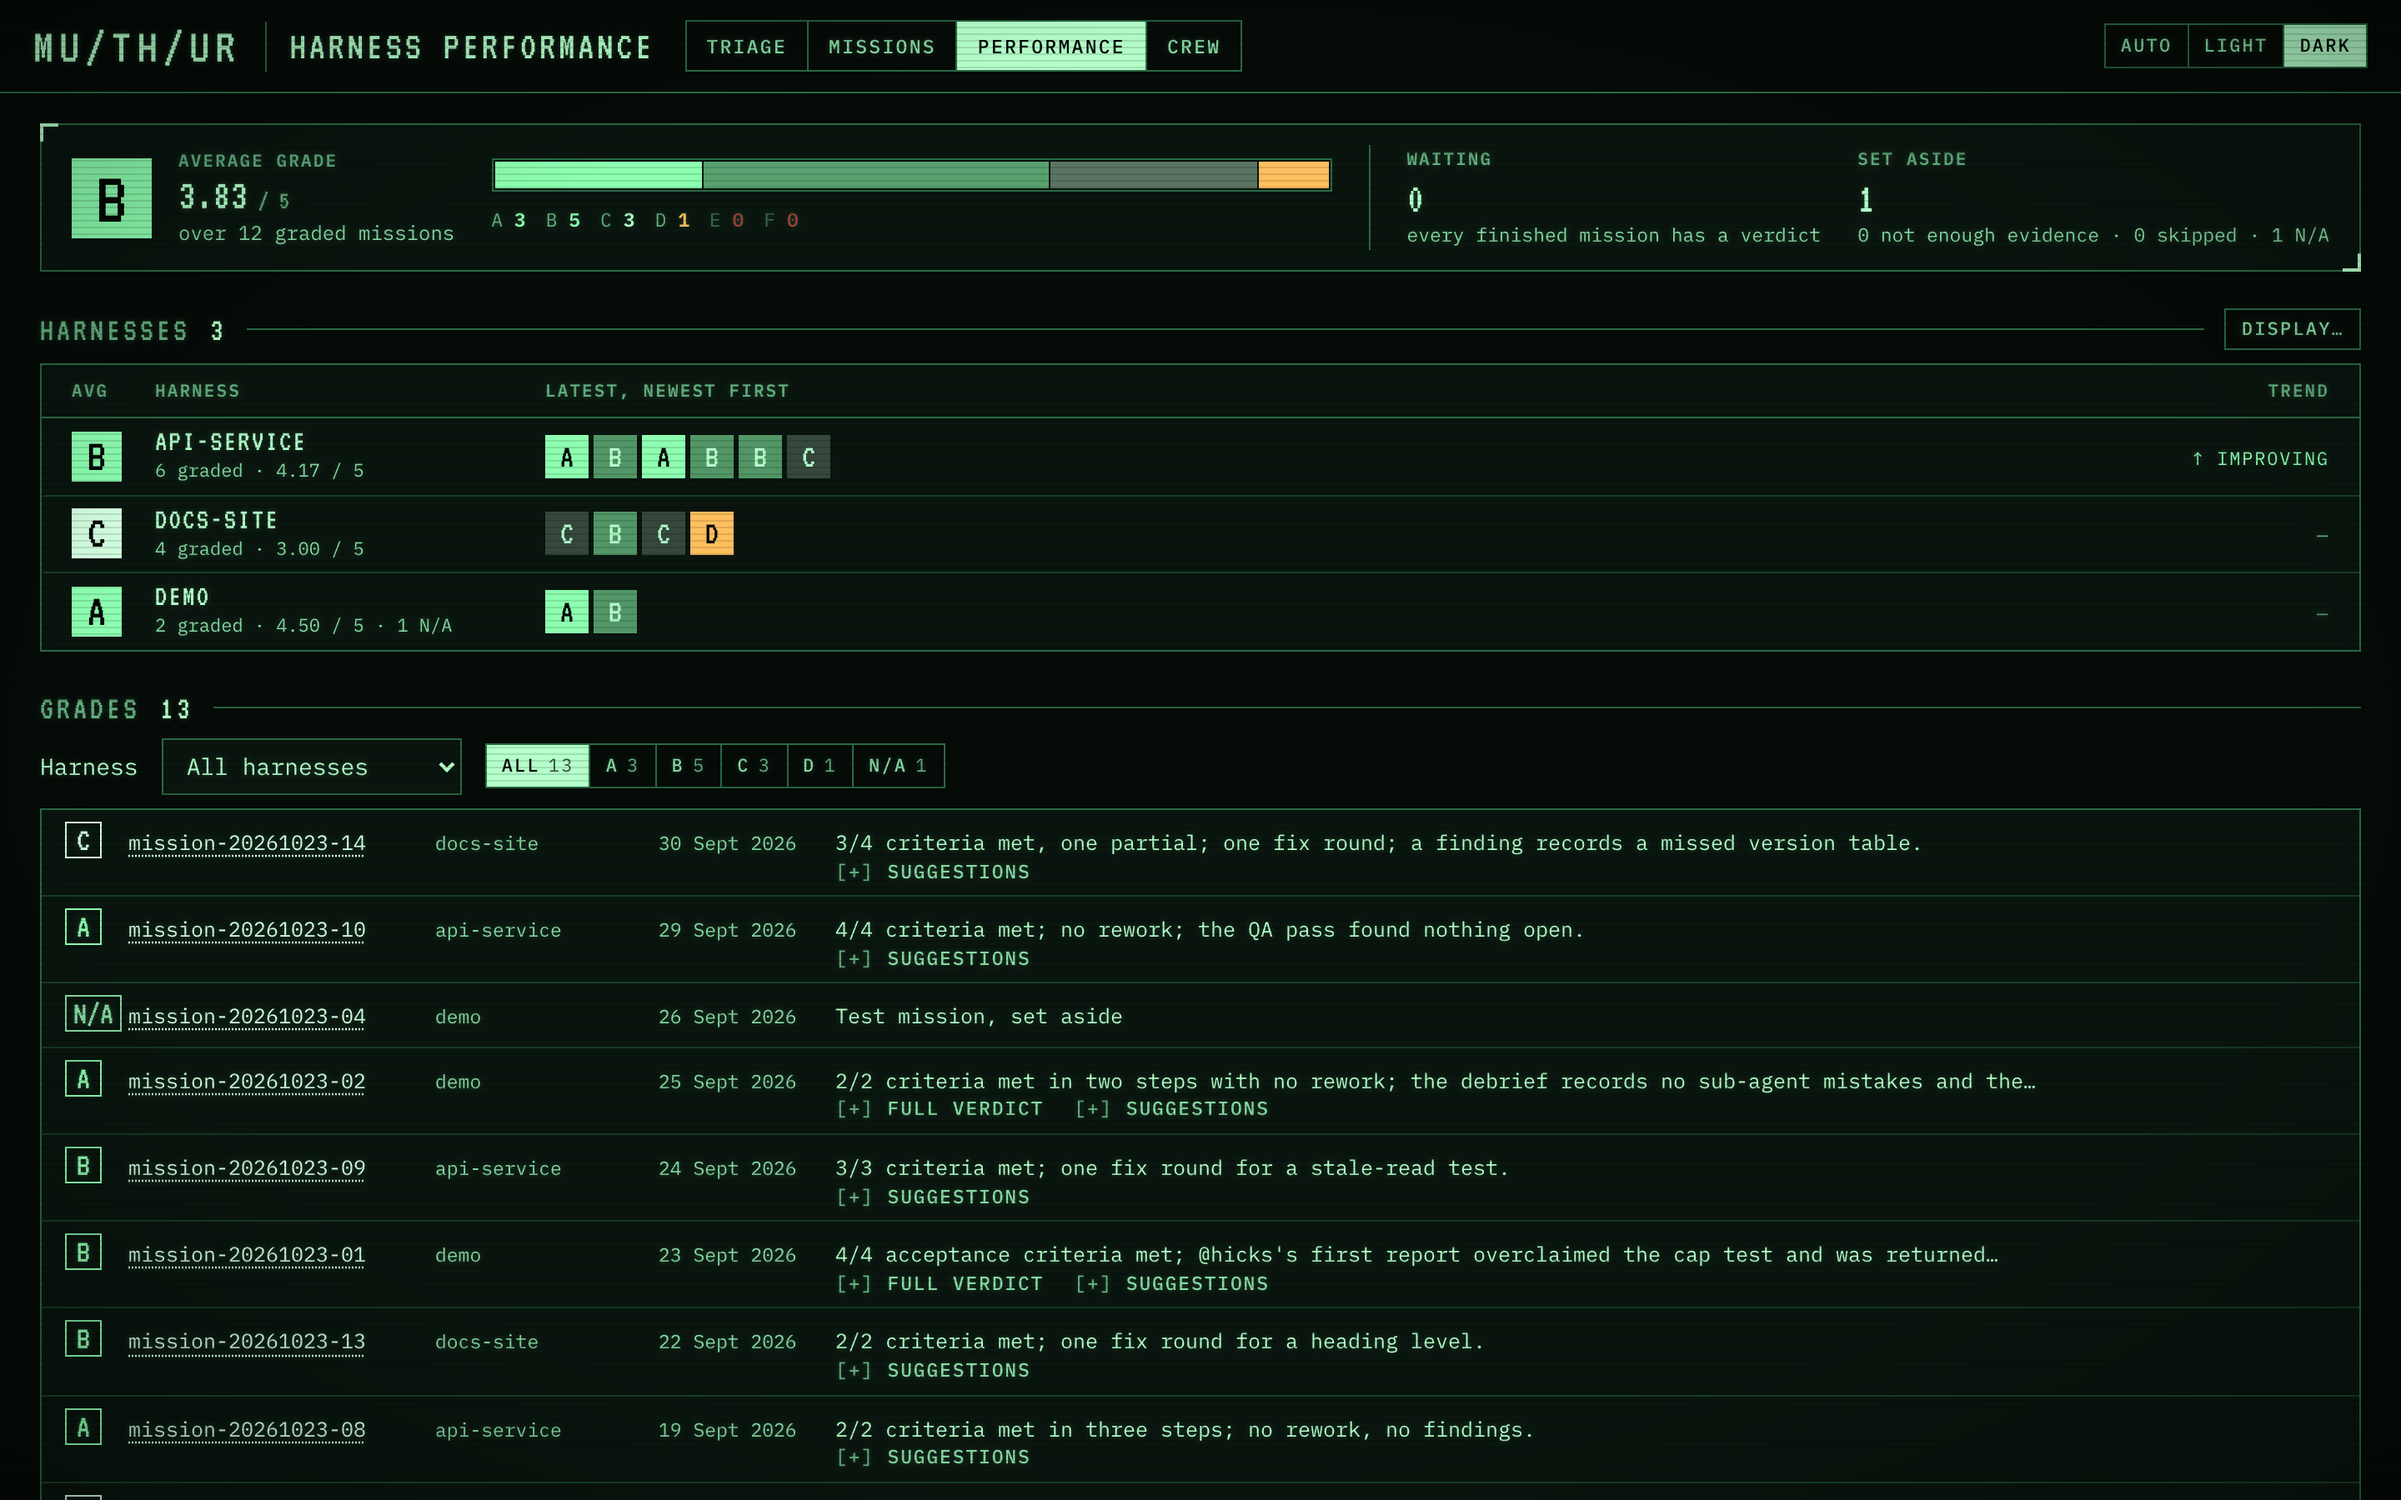
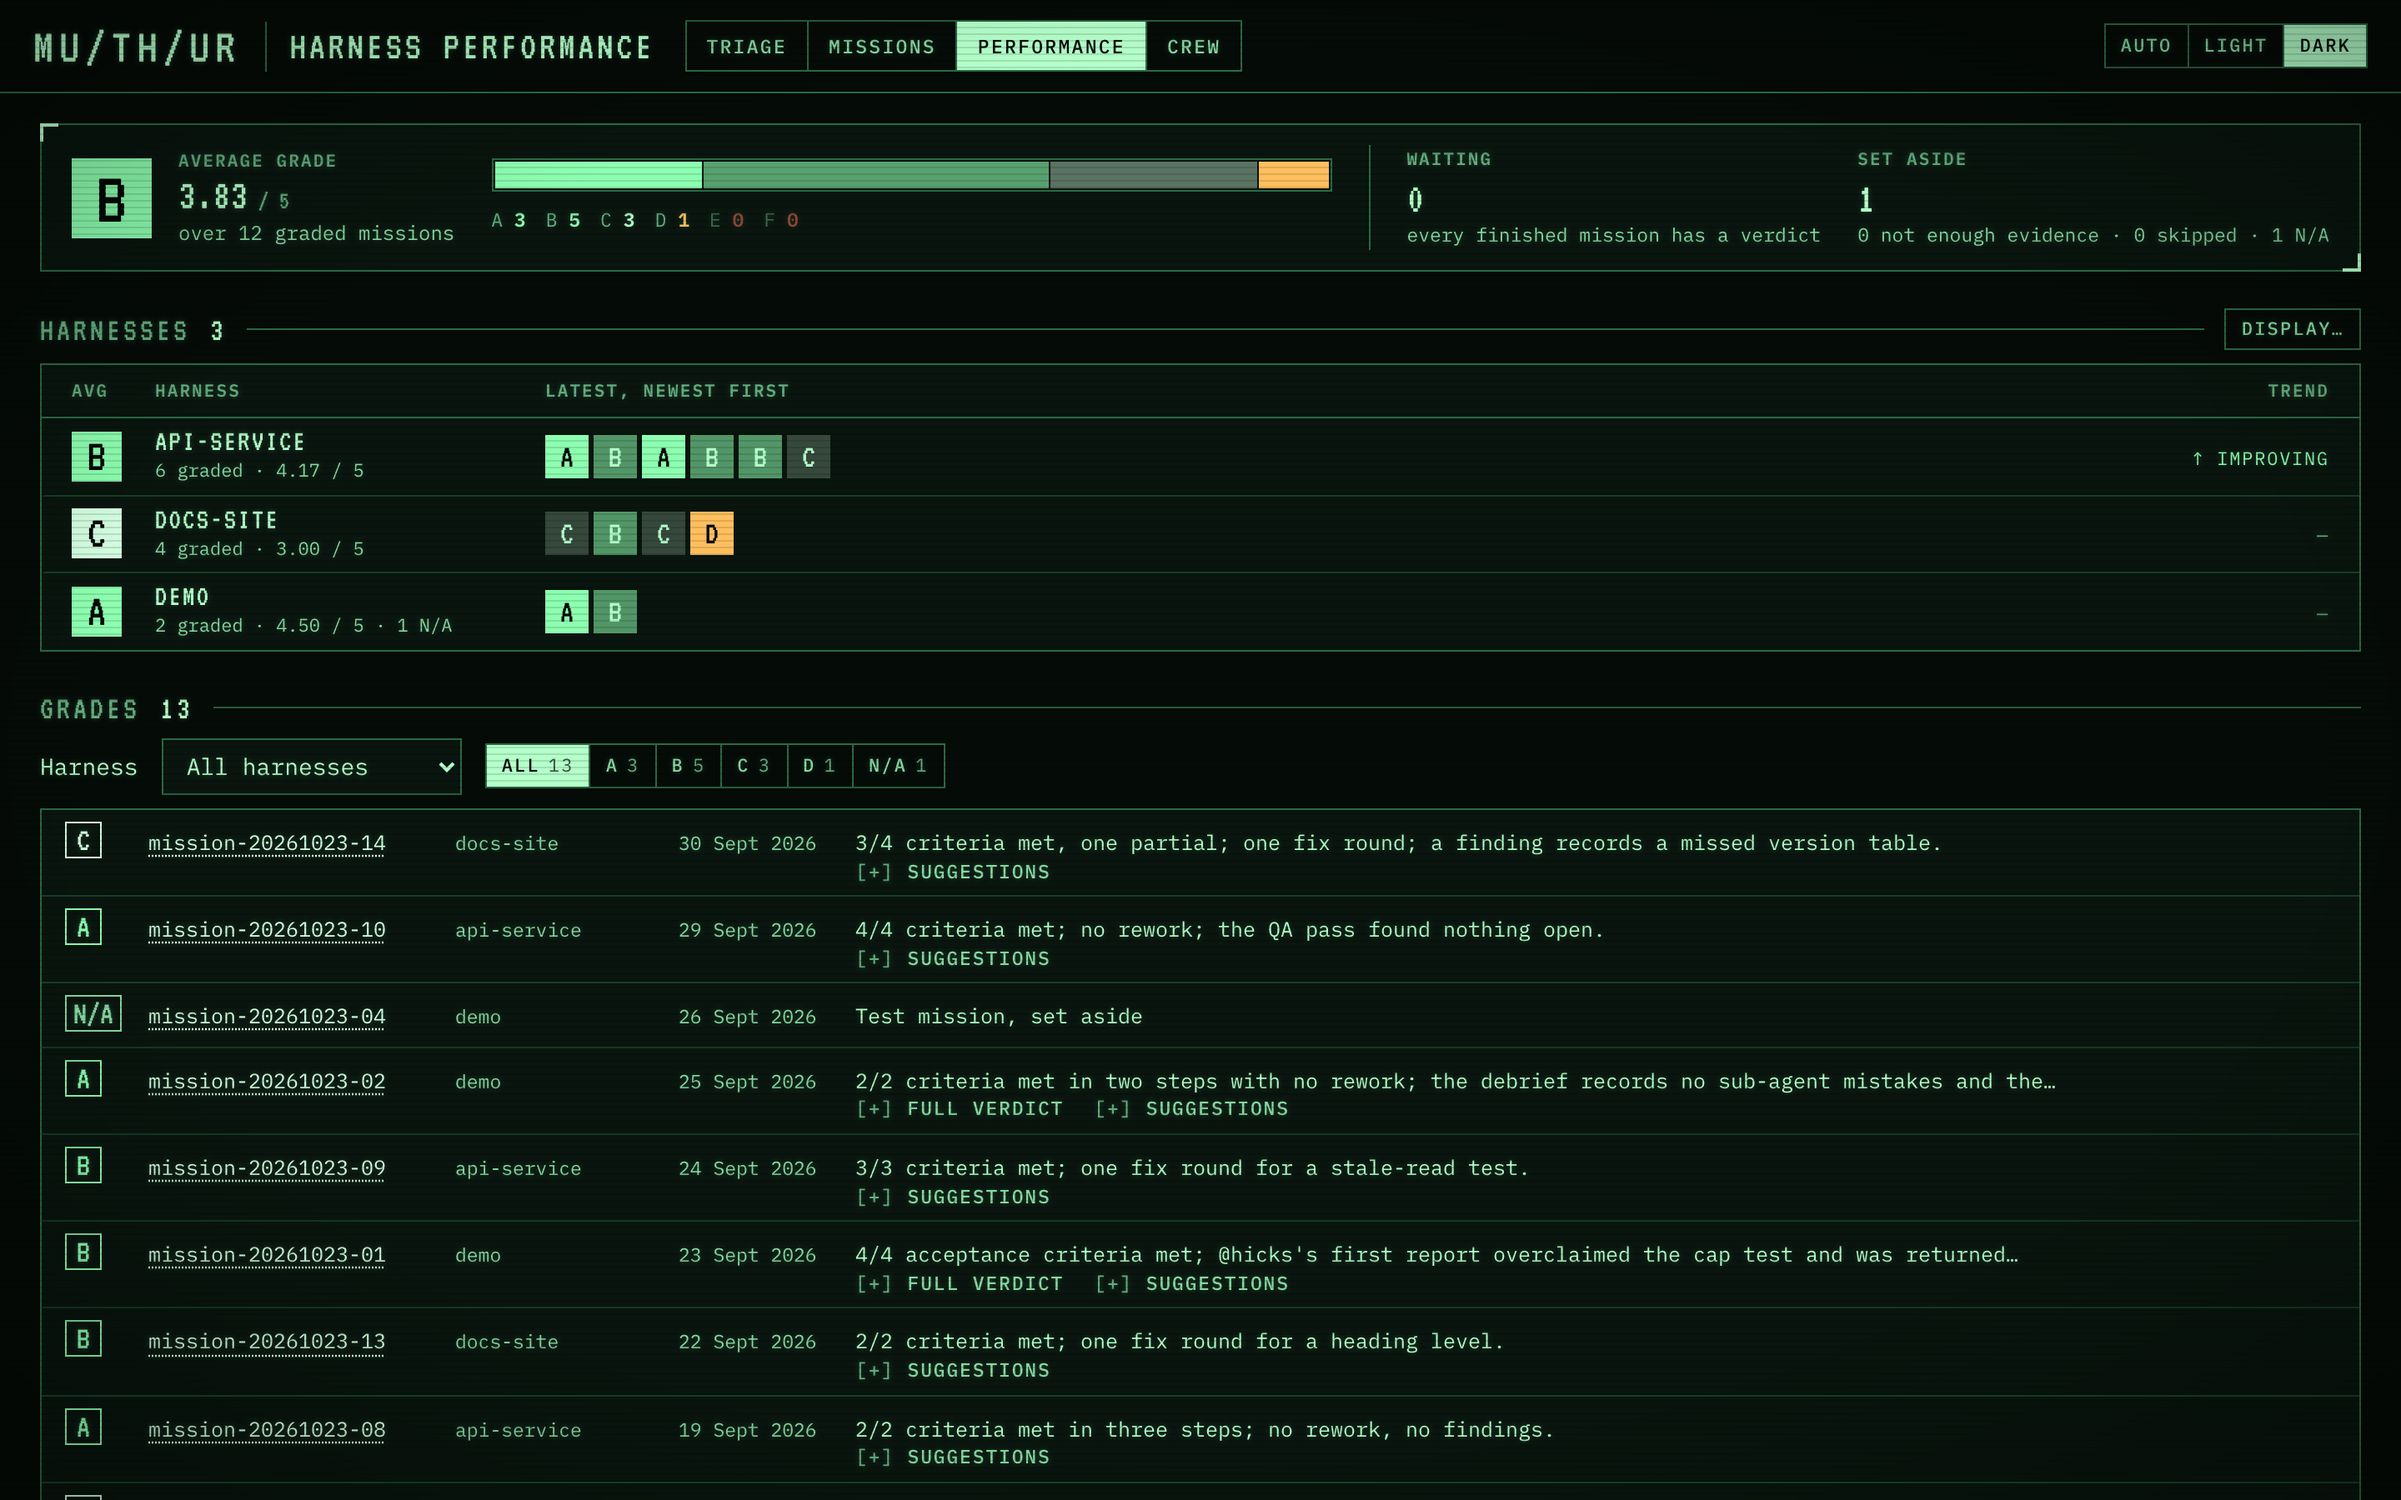
Fix the N/A grade overlap and the steps heading clip; harden the seeder
performance.html: the grade column of the Performance grades list was a
24px track at desktop width and at 1100px and below. The N/A box is wider
than a letter box, so it overflowed into the gap before the mission link.
The track is now 36px, the width the base rule already uses. Letter rows
keep their boxes; every row's mission link moves right by 12px.

capture.js: the sticky bars (the header and, on desktop, the mission tab
bar) are measured from their computed top and height. A section heading
must sit below them, and showMissionSection and showMissionHead fail the
run otherwise. missions-na-light also asserts that the Grade section
contains "N/A". The file header names the performance shots.

seed-demo.py: seed_exclusions stops with a message when a grades.excluded
key names no demo mission, and when the route does not answer state
excluded. A non-2xx answer stops inside call(). The printed count is the
number of exclusions that succeeded.

docs/wiki/images: regenerated by make screenshots.

diff --git a/scripts/screenshots/capture.js b/scripts/screenshots/capture.js
@@ -1,4 +1,4 @@
-// scripts/screenshots/capture.js — capture the review page and the mission HUD for the docs.
+// scripts/screenshots/capture.js — capture the review page, the mission HUD and the performance page for the docs.
 //
 // Usage: node capture.js <base-url> <output-dir>
 //
@@ -36,7 +36,7 @@ const SHOTS = [
     after: async (page) => { await showMissionHead(page); } },
   // The set-aside mission from demo.json: its Grade section carries the large N/A badge.
   { name: 'missions-na-light', theme: 'light', viewport: DESKTOP, mission: 'Dry run of the release checklist',
-    after: async (page) => { await showMissionSection(page, { heading: 'Grade', must: '.verdict' }); } },
+    after: async (page) => { await showMissionSection(page, { heading: 'Grade', must: '.verdict', text: 'N/A' }); } },
   { name: 'performance-light', theme: 'light', viewport: DESKTOP, page: '/performance' },
   { name: 'performance-dark', theme: 'dark', viewport: DESKTOP, page: '/performance' },
   { name: 'phone-light', theme: 'light', viewport: PHONE, tab: 'pending',
@@ -51,43 +51,60 @@ const SHOTS = [
     } },
 ];
 
+// The lowest edge, in CSS pixels, of the bars that stick to the top of the
+// viewport: the header, and the mission tab bar where it is sticky (on a phone
+// it is static and is not counted). A heading must sit below this edge to be
+// readable in a shot.
+async function stickyCover(page) {
+  return page.evaluate(() => {
+    const bars = [...document.querySelectorAll('header.top, #mtabs')]
+      .filter(el => getComputedStyle(el).position === 'sticky' && el.getClientRects().length > 0);
+    return Math.max(0, ...bars.map(el => parseFloat(getComputedStyle(el).top) + el.offsetHeight));
+  });
+}
+
 // Makes a mission tab current, when one is given, then scrolls the mission view
-// so the section with this heading sits just below the sticky header. The
-// section is found by its heading, never by its position: the panes hide the
-// sections of other tabs, so a position can name a hidden one. The shot fails
-// unless the section is visible and its `must` element is on screen afterwards.
-async function showMissionSection(page, { tab, heading, must }) {
+// so the heading of the section named by `heading` sits just below the sticky
+// bars. The section is found by its heading, never by its position: the panes
+// hide the sections of other tabs, so a position can name a hidden one. The shot
+// fails unless the section is visible, its heading and its `must` element are on
+// screen below the sticky bars, and, when `text` is given, the section contains it.
+async function showMissionSection(page, { tab, heading, must, text }) {
   if (tab) {
     await page.click(`#mtabs button[data-mt="${tab}"]`);
     await page.waitForTimeout(300);
   }
-  await page.evaluate(({ heading, must }) => {
+  const covered = await stickyCover(page);
+  await page.evaluate(({ heading, must, text, covered }) => {
     const sec = [...document.querySelectorAll('#view section.sec')]
       .find(s => (s.querySelector('h3')?.childNodes[0]?.textContent || '').trim() === heading);
     if (!sec || sec.hidden || sec.getClientRects().length === 0) throw new Error(`no visible "${heading}" section`);
-    const header = document.querySelector('header.top').offsetHeight;
-    window.scrollTo(0, sec.getBoundingClientRect().top + window.scrollY - header - 12);
-    const target = must ? sec.querySelector(must) : sec;
-    const r = target ? target.getBoundingClientRect() : null;
-    if (!r || r.height === 0 || r.top < header || r.top >= window.innerHeight) {
-      throw new Error(`"${heading}" ${must || 'section'} is not on screen after scrolling`);
-    }
-  }, { heading, must });
+    const h3 = sec.querySelector('h3');
+    window.scrollTo(0, h3.getBoundingClientRect().top + window.scrollY - covered - 12);
+    const below = el => {
+      const r = el.getBoundingClientRect();
+      return r.height > 0 && r.top >= covered && r.top < window.innerHeight;
+    };
+    if (!below(h3)) throw new Error(`the "${heading}" heading is clipped by the sticky bars or is off screen`);
+    const target = must ? sec.querySelector(must) : null;
+    if (must && (!target || !below(target))) throw new Error(`"${heading}" ${must} is not on screen below the sticky bars`);
+    if (text && !sec.innerText.includes(text)) throw new Error(`the "${heading}" section does not contain "${text}"`);
+  }, { heading, must, text, covered });
   await page.waitForTimeout(300);
 }
 
-// Scrolls the mission view so its header (#view, which holds the mission head)
-// sits just below the sticky header. Fails unless the head is on screen afterwards.
+// Scrolls the mission view so its head (.head, inside #view) sits just below the
+// sticky bars. Fails unless the head is on screen there afterwards.
 async function showMissionHead(page) {
-  await page.evaluate(() => {
+  const covered = await stickyCover(page);
+  await page.evaluate(covered => {
     const view = document.querySelector('#view');
     const head = view.querySelector('.head');
     if (!head || head.getClientRects().length === 0) throw new Error('no visible mission head');
-    const header = document.querySelector('header.top').offsetHeight;
-    window.scrollTo(0, view.getBoundingClientRect().top + window.scrollY - header - 12);
+    window.scrollTo(0, view.getBoundingClientRect().top + window.scrollY - covered - 12);
     const r = head.getBoundingClientRect();
-    if (r.bottom <= header || r.top >= window.innerHeight) throw new Error('the mission head is not on screen');
-  });
+    if (r.bottom <= covered || r.top >= window.innerHeight) throw new Error('the mission head is not on screen below the sticky bars');
+  }, covered);
   await page.waitForTimeout(300);
 }
 

diff --git a/internal/ui/performance.html b/internal/ui/performance.html
@@ -328,12 +328,12 @@
   .recent .grade.gD { background:var(--warn) } .recent .grade.gE { background:color-mix(in srgb, var(--bad) 55%, var(--panel)); color:var(--fg) } .recent .grade.gF { background:var(--bad) }
   .recent a:hover .grade { outline:1px solid var(--fg); outline-offset:1px }
   .toolbar { margin-bottom:8px }
-  .grow { grid-template-columns:24px 170px 120px 92px minmax(0,1fr); gap:2px 14px; padding:7px 14px; align-items:baseline }
+  .grow { grid-template-columns:36px 170px 120px 92px minmax(0,1fr); gap:2px 14px; padding:7px 14px; align-items:baseline }
   .grow .gm { display:contents } .grow .gm .t { display:none } .grow .gm .m { display:contents; font-size:11.5px; color:var(--muted) }
   .grow .gm .m span { font-size:11.5px; color:var(--muted); white-space:nowrap; overflow:hidden; text-overflow:ellipsis }
   .grow .gs { grid-column:5; grid-row:1 } .grow .gs p { font-size:12.5px; line-height:1.5 } .grow .gs p.clamp { -webkit-line-clamp:1 }
   .grow .acts { margin-top:0 } .grow .acts button { padding:2px 0 }
-  @media (max-width: 1100px) { .bhead { display:none } .brow { grid-template-columns:36px minmax(0,1fr) auto; grid-template-areas:"g n t" "g r r" } .grow { grid-template-columns:24px minmax(0,1fr) } .grow .gm { display:block } .grow .gm .m { display:flex; gap:10px } .grow .gs { grid-column:2; grid-row:auto } }
+  @media (max-width: 1100px) { .bhead { display:none } .brow { grid-template-columns:36px minmax(0,1fr) auto; grid-template-areas:"g n t" "g r r" } .grow { grid-template-columns:36px minmax(0,1fr) } .grow .gm { display:block } .grow .gm .m { display:flex; gap:10px } .grow .gs { grid-column:2; grid-row:auto } }
   .sec > h3 .hid { font:500 11px/1 var(--mono); letter-spacing:.08em; color:var(--warn); border:1px solid currentColor; padding:3px 6px }
   .sec > h3 .gear { order:3; font:500 11px/1 var(--mono); letter-spacing:.1em; text-transform:uppercase; color:var(--muted); background:none; border:1px solid var(--line2); padding:6px 9px; cursor:pointer; text-shadow:inherit }
   .sec > h3 .gear:hover { color:var(--fg); border-color:var(--fg) }

diff --git a/scripts/screenshots/seed-demo.py b/scripts/screenshots/seed-demo.py
@@ -211,11 +211,20 @@ def seed_grades(url, demo, db_path):
 def seed_exclusions(url, demo):
     """Set the demo missions named under grades.excluded aside as N/A, through the
     operator's exclusion route. Runs after seed_grades, so the grade run never
-    claims these missions. Returns how many were set aside."""
+    claims these missions. A key that names no demo mission, or an answer other
+    than state 'excluded', stops the run with a message (tc.die). A non-2xx
+    answer stops it too, inside call(). Returns how many exclusions succeeded."""
     spec = (demo.get("grades") or {}).get("excluded", {})
+    ids = demo.get("_mission_ids", {})
+    set_aside = 0
     for key, note in spec.items():
-        call(url, "PUT", f"/v1/mission-grades/{demo['_mission_ids'][key]}/exclusion", {"note": note})
-    return len(spec)
+        if key not in ids:
+            tc.die(f"[seed-demo] grades.excluded names '{key}', which is not the key of a demo mission in missions")
+        answer = call(url, "PUT", f"/v1/mission-grades/{ids[key]}/exclusion", {"note": note})
+        if answer.get("state") != "excluded":
+            tc.die(f"[seed-demo] excluding '{key}' answered {answer!r}, not state excluded")
+        set_aside += 1
+    return set_aside
 
 
 def main():
